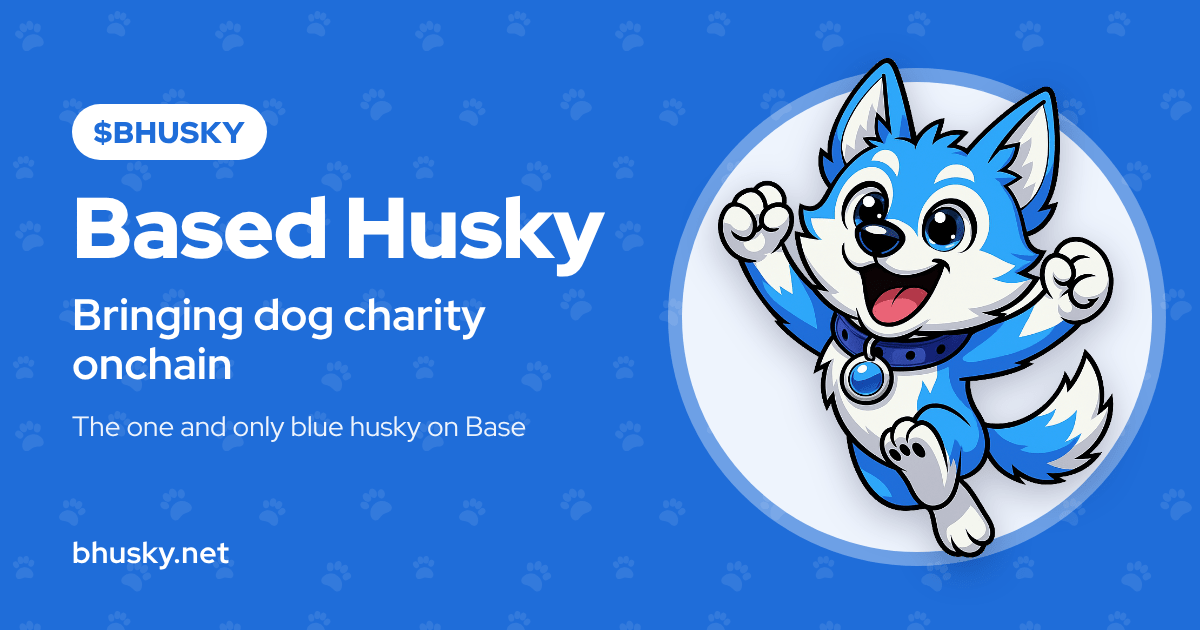
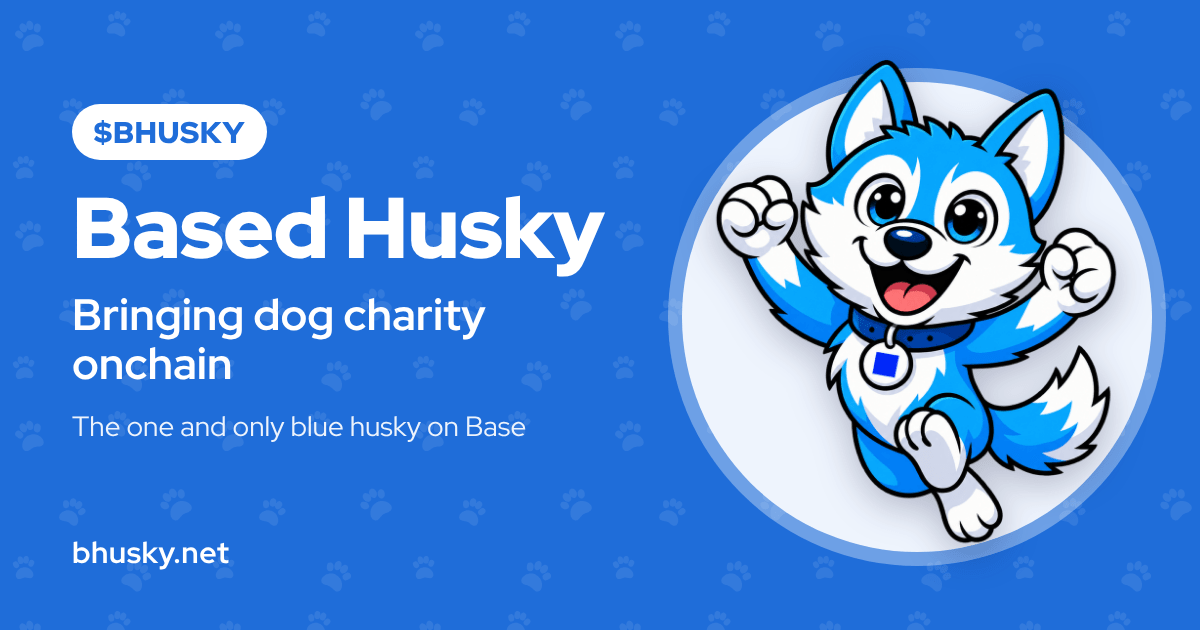
New illustrations, closer to the official Bhusky character
Fio's improved versions of the five section illustrations (official
Bhusky: square Base-style tag, no sunglasses).

- All five are 1024 px PNGs with transparent backgrounds, so they sit
  on any band without a visible square:
  - hero and burn were already transparent; their ~2% see-through body
    alpha is snapped to fully opaque
  - charity, uni and community had a blue background (uni and community
    a brighter blue than the site's #1F6DD9): removed with a border flood
    fill plus colour-to-alpha on a 3 px edge ring; for community, the
    enclosed background pockets between the dogs and their paws too
- Total 1.38 MB (was 1.71 MB).
- og-image.png regenerated with the new hero.
- Burn image alt text: no sunglasses any more.

Layout unchanged on phone and desktop; no console errors.

Claude-Session: https://claude.ai/code/session_019KcsMU6fwsySjLA4ecRboz

Changed region(s): [[0.5858, 0.0905, 0.9558, 0.9048]]

diff --git a/src/app/app.html b/src/app/app.html
@@ -23,7 +23,7 @@
   </bhusky-section>
 
   <bhusky-section id="huskenomics" title="Huskenomics" imageUrl="/bhusky-burn.png"
-    imageAlt="Bhusky in sunglasses tossing a coin into a fire next to a box labeled Supply">
+    imageAlt="Bhusky tossing a coin into a fire next to a box labeled Supply">
     <ul>
       <li>Fixed supply of 1,000,000,000 $BHUSKY, with no mint function. <a class="verify" href="https://basescan.org/token/0x20895E16d5aE9D6e0Ca127ED093a7cBE65dCb018" target="_blank" rel="noopener">Verify&nbsp;↗</a></li>
       <li>0/0 tax: no fees on buys or sells. <a class="verify" href="https://basescan.org/address/0x20895E16d5aE9D6e0Ca127ED093a7cBE65dCb018#code" target="_blank" rel="noopener">Verify&nbsp;↗</a></li>
